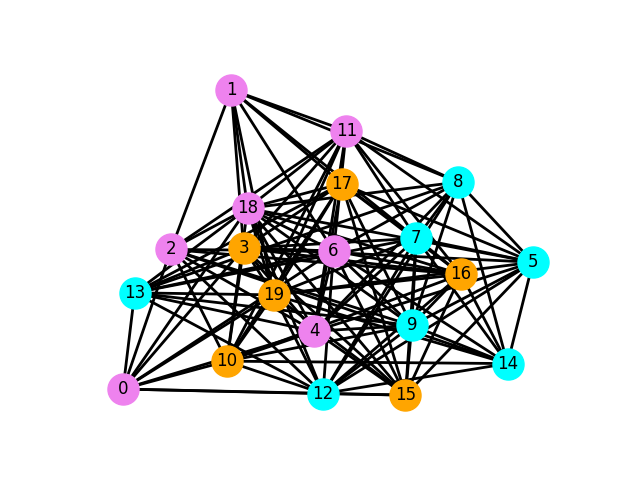
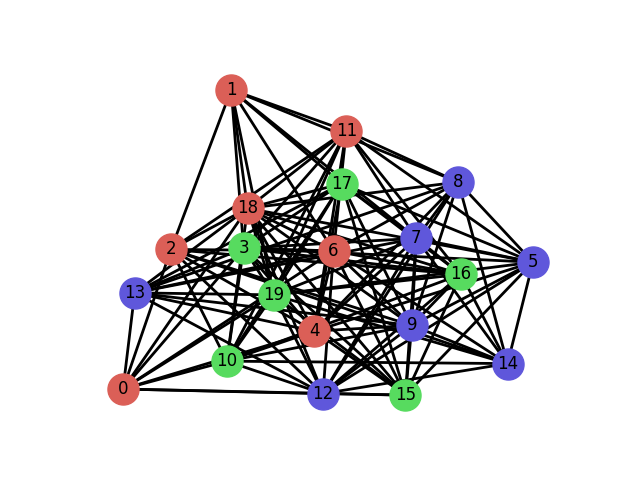
add nmf method but anls_as bug

diff --git a/draw.py b/draw.py
@@ -1,5 +1,6 @@
 import networkx as nx
 import matplotlib.pyplot as plt
+import seaborn as sns
 import numpy as np
 from operator import mul
 from functools import *
@@ -16,10 +17,9 @@ def getEdge(G,G_part):
 
 def plotPartition(G,true_parttion):
     pos = nx.spring_layout(G, k=0.1, iterations=50, scale=1.3)
-    colors = ["violet","orange","cyan","red","blue","green","yellow","indigo","pink"]
-    for i,com in enumerate(true_parttion):
-        nodes = list(com)
-        nx.draw_networkx_nodes(G,pos,nodelist=nodes,node_size=500, node_color=colors[i % len(colors)])
+    colors = dict(zip(true_parttion.keys(), sns.color_palette('hls', len(true_parttion.keys()))))
+    for com in true_parttion.keys():
+        nx.draw_networkx_nodes(G,pos,nodelist=true_parttion[com],node_size=500, node_color=colors[com])
     nx.draw_networkx_edges(G,pos,edgelist=G.edges(data=True), width=2,alpha=1,edge_color='k')
     nx.draw_networkx_labels(G,pos,font_size=12,font_family='sans-serif')
 

diff --git a/louvain_method.py b/louvain_method.py
@@ -156,4 +156,5 @@ def louvain_algorithm(adj_matrix, n = None):
 true_partition, frame = louvain_algorithm(adj_matrix)
 G = nx.from_numpy_array(adj_matrix)
 print(true_partition)
+true_partition = {i : list(ele) for i,ele in enumerate(true_partition)}
 plotPartition(G,true_partition)
